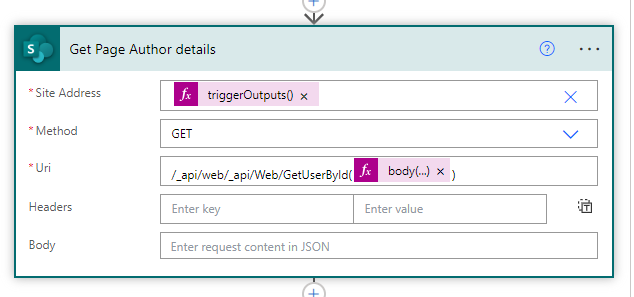
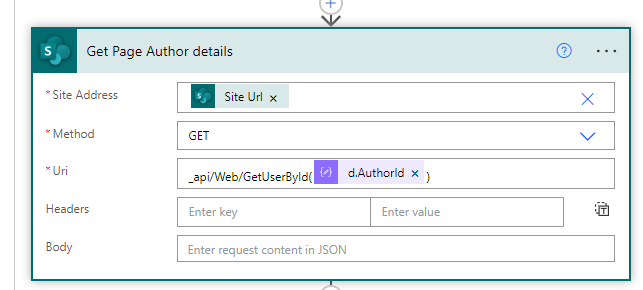
fix typo

Changed region(s): [[0.0, 0.0, 1.0, 1.0]]

diff --git a/Hugo/sites/M365Blog/content/posts/powerautomate-get-user-details.md b/Hugo/sites/M365Blog/content/posts/powerautomate-get-user-details.md
@@ -15,7 +15,7 @@ Within a Power Automate flow follow the steps below to retrieve a user details.
 
 * Site Address: https://test.sharepoint.com
 * Method: GET
-* URI: /_api/web/_api/Web/GetUserById(14)
+* URI: _api/Web/GetUserById(14)
 
 Here's the output from the API:
 
